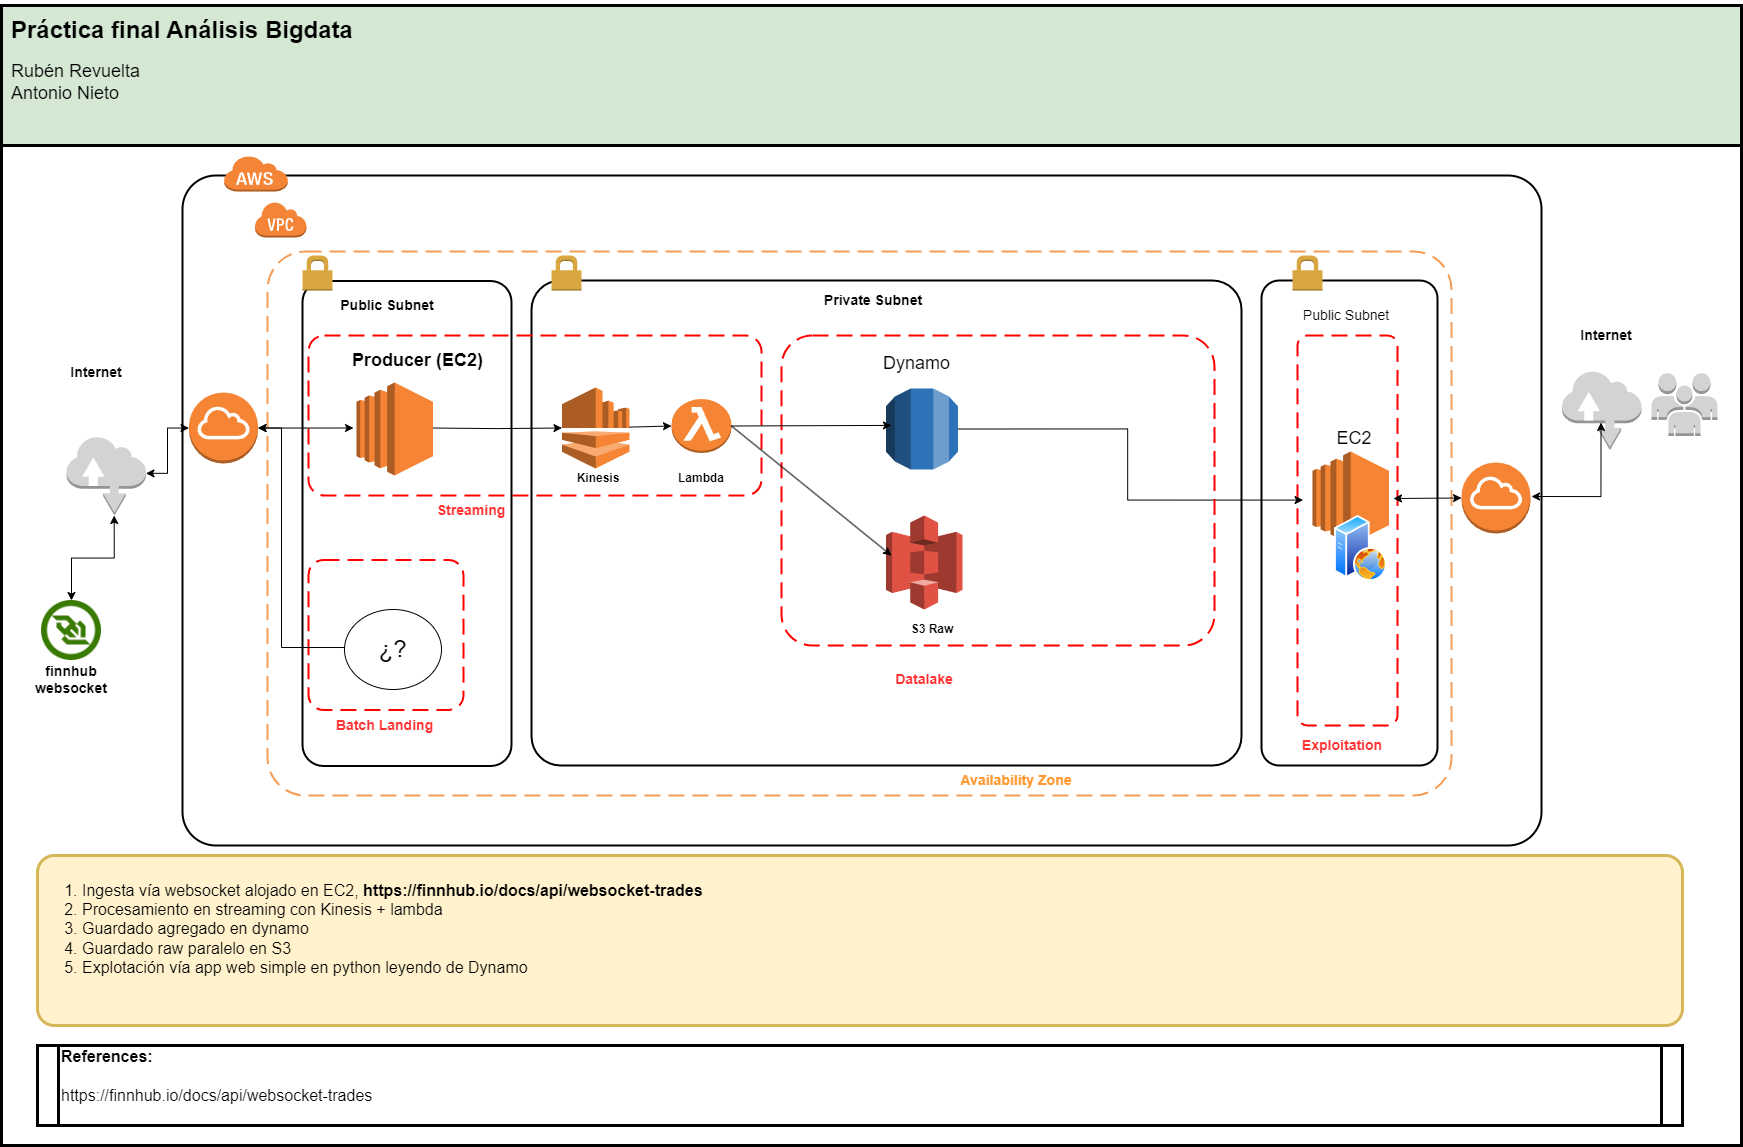
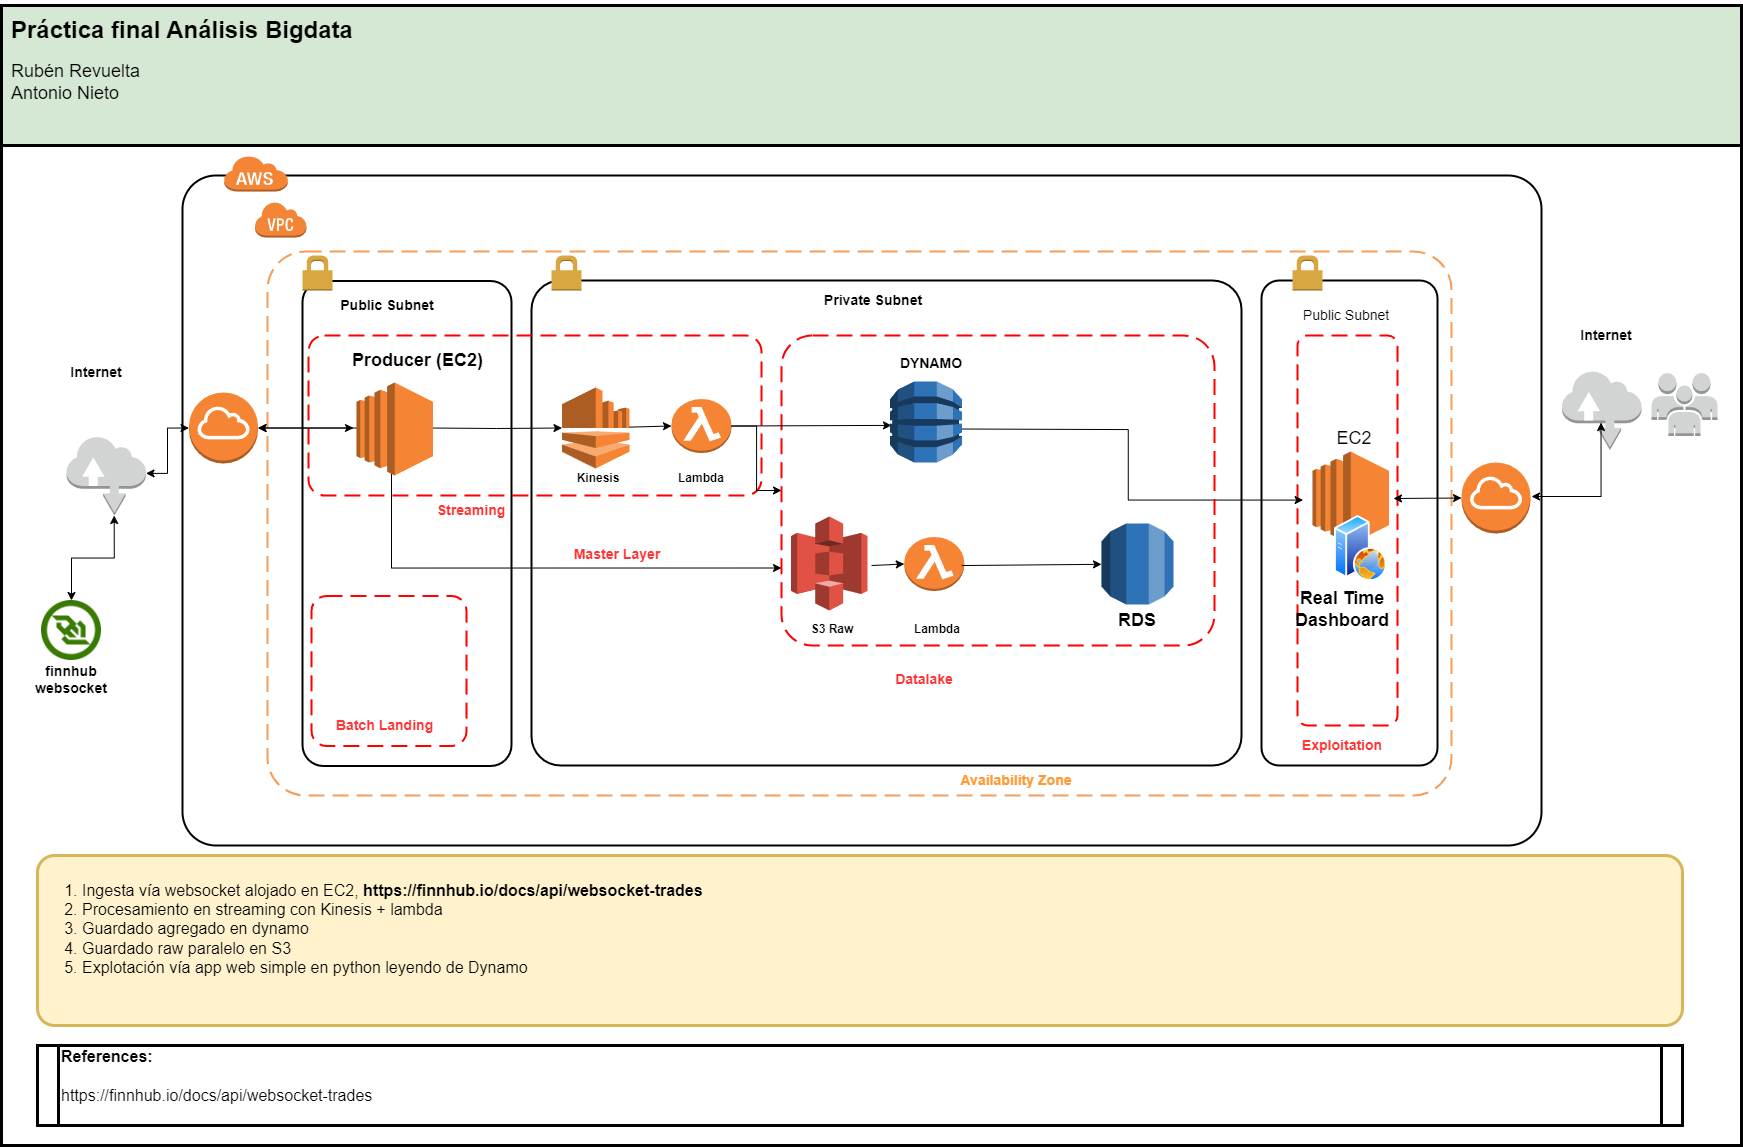
doc y flujo master validacion

diff --git a/02-process/processRDS.py b/02-process/processRDS.py
@@ -1,0 +1,42 @@
+import json
+import boto3
+import psycopg2
+import os
+
+s3 = boto3.client("s3")
+
+def handler(event, context):
+    record = event["Records"][0]
+    bucket = record["s3"]["bucket"]["name"]
+    key = record["s3"]["object"]["key"]
+
+    obj = s3.get_object(Bucket=bucket, Key=key)
+    body = obj["Body"].read().decode("utf-8")
+
+    trade = json.loads(body)
+
+    conn = psycopg2.connect(
+        host=os.environ["DB_HOST"],
+        dbname=os.environ["DB_NAME"],
+        user=os.environ["DB_USER"],
+        password=os.environ["DB_PASS"],
+        connect_timeout=5
+    )
+
+    cur = conn.cursor()
+
+    cur.execute("""
+        INSERT INTO raw_trades
+        (pair, price, volume, trade_ts, s3_key)
+        VALUES (%s, %s, %s, %s, %s)
+    """, (
+        trade["s"],
+        trade["p"],
+        trade["v"],
+        trade["t"],
+        key
+    ))
+
+    conn.commit()
+    cur.close()
+    conn.close()

diff --git a/01-ingestion/producer.py b/01-ingestion/producer.py
@@ -5,19 +5,38 @@ import websocket
 import json
 import boto3
 
+import time
+import uuid
+
+kinesis = boto3.client("kinesis", region_name="us-east-1")
+
+s3 = boto3.client("s3", region_name="us-east-1")
+S3_BUCKET = "raw-bucket-grupo20"
+S3_PREFIX = "raw/trades/"
 
 def on_message(ws, message):
-    kinesis = boto3.client('kinesis', region_name='us-east-1')
     print(message)
     data = json.loads(message)
 
+    # envío kinesis
     kinesis.put_record(
         StreamName='bc-data',
         Data=json.dumps(data),
         PartitionKey="1"
     )
+    
+    # sink s3
+    key = f"{S3_PREFIX}trade_{int(time.time() * 1000)}_{uuid.uuid4()}.json"
+
+    s3.put_object(
+        Bucket=S3_BUCKET,
+        Key=key,
+        Body=json.dumps(data),
+        ContentType="application/json"
+    )
+
     # prueba unitaria
-    ws.close()
+    # ws.close()
 
 def on_error(ws, error):
     print(error)
